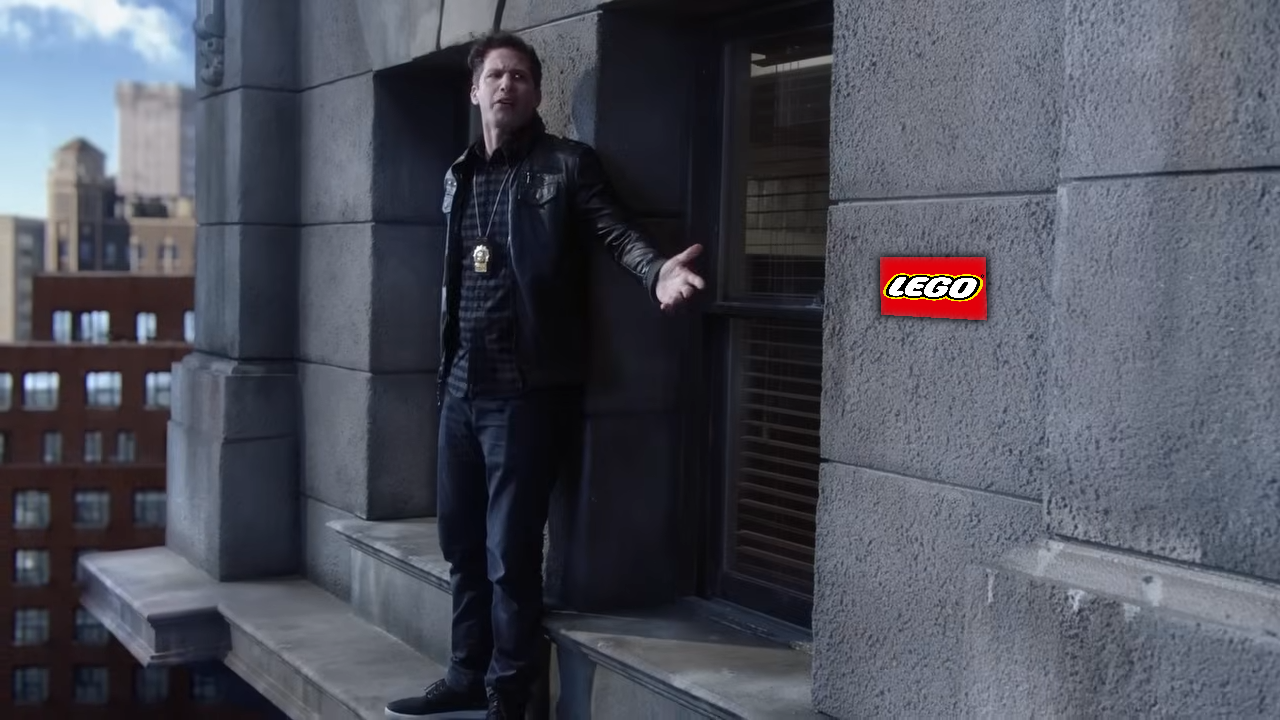
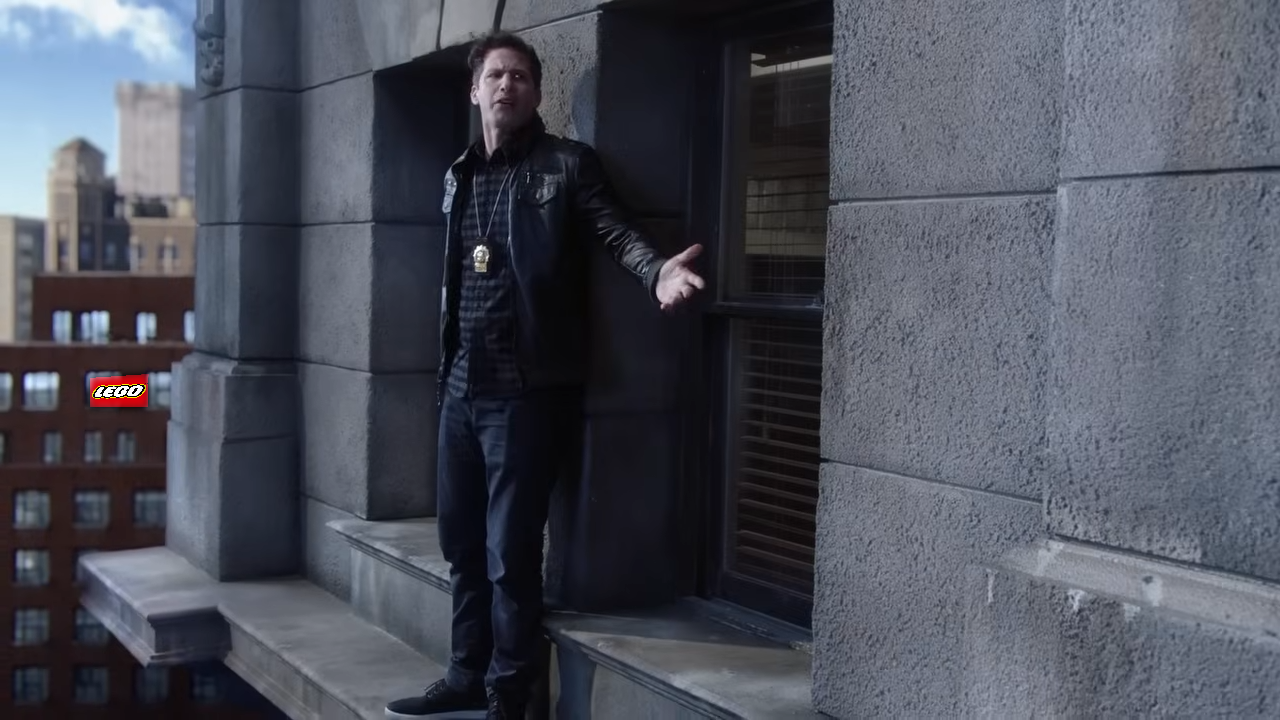
feather blend updates

Changed region(s): [[0.6562, 0.3361, 0.7812, 0.4583], [0.0625, 0.5194, 0.125, 0.5806]]

diff --git a/feather.py b/feather.py
@@ -7,11 +7,11 @@ import numpy as np
 # ============================================================
 
 src = cv2.imread(
-    "lego.png",
+    "blending-images/main_images/lego.png",
     cv2.IMREAD_UNCHANGED
 )
 
-dst = cv2.imread("b99.png")
+dst = cv2.imread("blending-images/main_images/b99.png")
 
 if src is None or dst is None:
     raise ValueError("Could not load images")
@@ -162,10 +162,10 @@ blended = np.clip(blended, 0, 255).astype(np.uint8)
 # SAVE RESULTS
 # ============================================================
 
-cv2.imwrite("warped_logo.png", warped_src)
-cv2.imwrite("warped_mask.png", warped_mask)
-cv2.imwrite("soft_mask.png", soft_mask)
-cv2.imwrite("feather_blended.png", blended)
+cv2.imwrite("blending-images/result_images/warped_logo_feather.png", warped_src)
+cv2.imwrite("blending-images/result_images/warped_mask_feather.png", warped_mask)
+cv2.imwrite("blending-images/result_images/soft_mask_feather.png", soft_mask)
+cv2.imwrite("blending-images/result_images/feather_blended.png", blended)
 
 print("Done.")
 

diff --git a/pyramid.py b/pyramid.py
@@ -1,8 +1,8 @@
 import cv2 as cv
 import numpy as np,sys
 
-A = cv.imread('b99.png')
-B = cv.imread('office.png')
+A = cv.imread('blending-images/main_images/b99.png')
+B = cv.imread('blending-images/main_images/office.png')
 assert A is not None, "file could not be read, check with os.path.exists()"
 assert B is not None, "file could not be read, check with os.path.exists()"
 
@@ -53,5 +53,5 @@ for i in range(1,6):
 # image with direct connecting each half
 real = np.hstack((A[:,:cols//2],B[:,cols//2:]))
 
-cv.imwrite('Pyramid_blending2.jpg',ls_)
-cv.imwrite('Direct_blending.jpg',real)
+cv.imwrite('blending-images/result_images/Pyramid_blending2.jpg',ls_)
+cv.imwrite('blending-images/result_images/Direct_blending.jpg',real)
